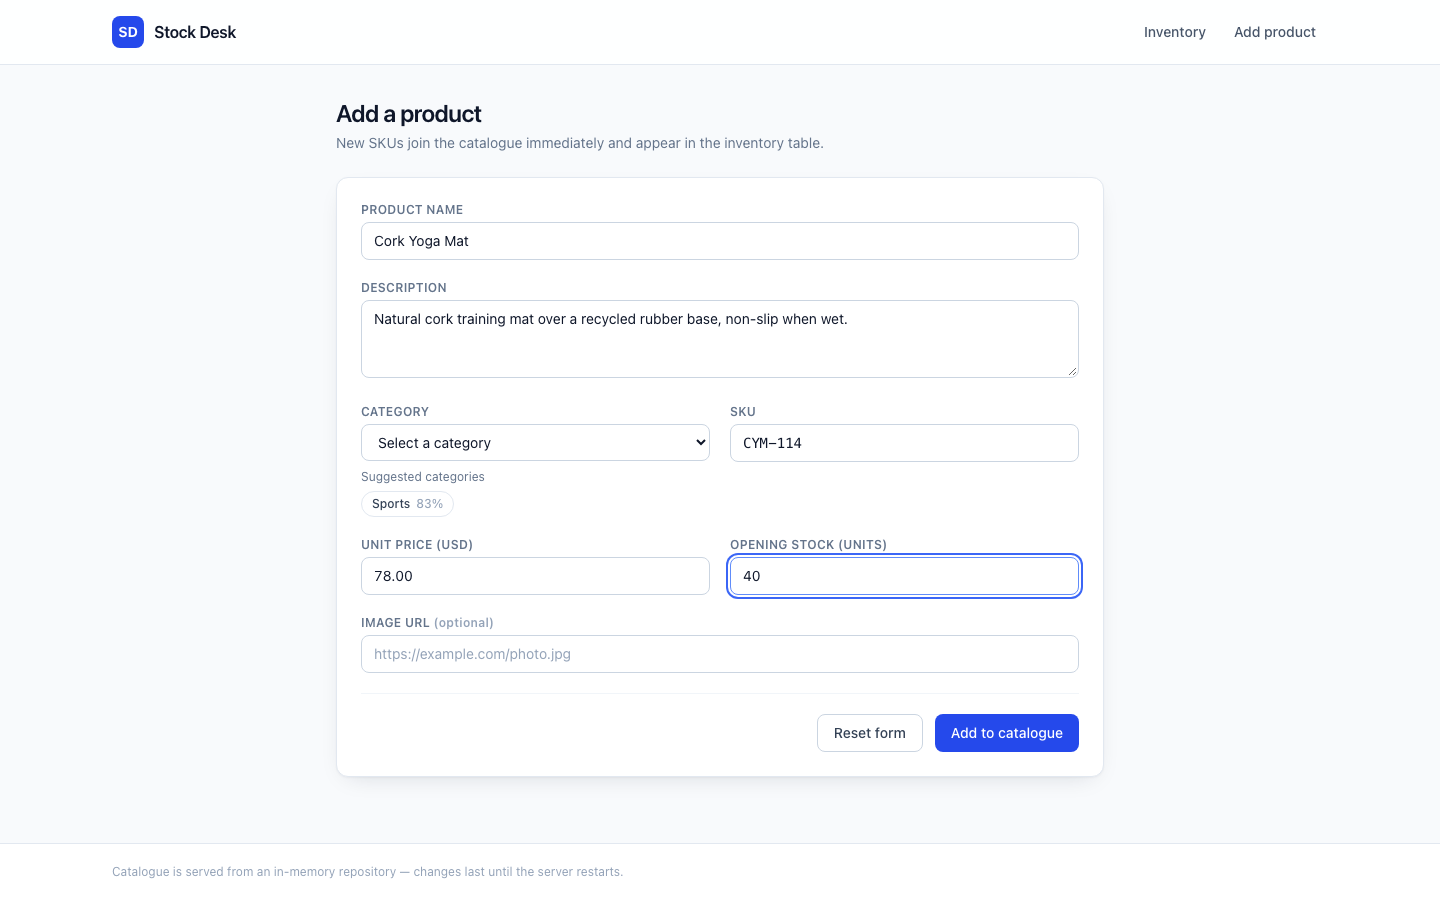
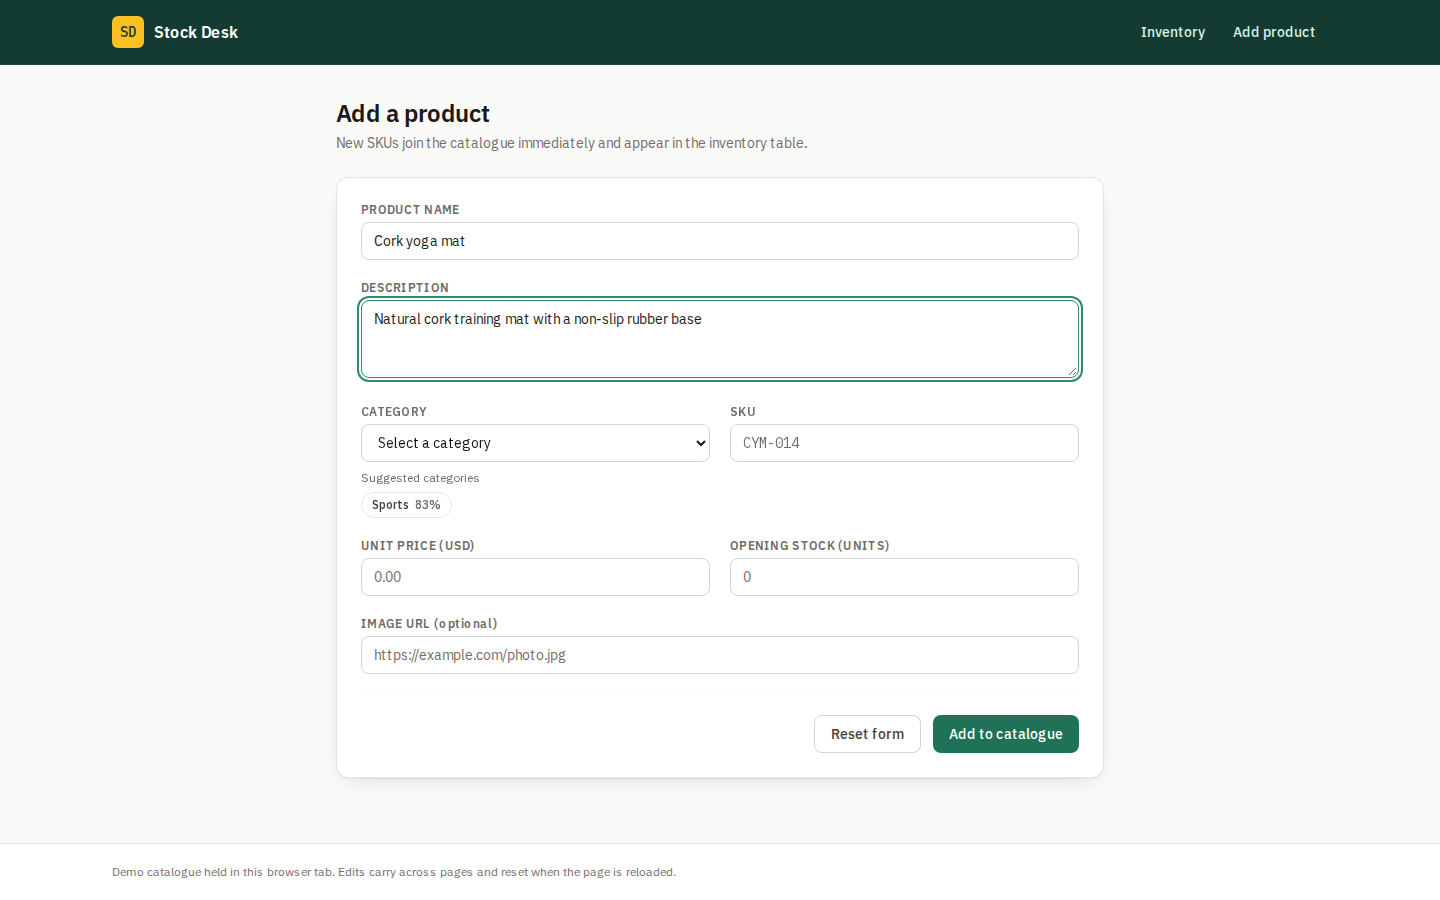
Bring the README and screenshots in line with the app as it now is
Documents the Compose path first, Node 22, ESLint 9 and the build-time
font download; says plainly that the screens' catalogue lives in the
browser tab while /api/health reads the server's seeded copy; describes
per-row rollback, whole-word category matching and the model timeout;
adds a captured suggest-category request and response; records that the
image was built and booted; and drops the paragraph about stub cart
buttons. Screenshots are recaptured in the new look, with grid and phone
views added. A type comment that promised URL-shareable queries, which
the app never had, is corrected.

diff --git a/src/types/product.ts b/src/types/product.ts
@@ -40,8 +40,8 @@ export type SortDirection = 'asc' | 'desc'
 
 /**
  * A full read request against the catalogue: filters, free-text search,
- * ordering and a page window. The same shape is understood by the repository
- * and by the URL query string, so a view is shareable.
+ * ordering and a page window. The hook builds it and the repository answers
+ * it, so the UI never filters or sorts on its own.
  */
 export interface ProductQuery extends FilterOptions {
   search?: string

diff --git a/README.md b/README.md
@@ -6,14 +6,23 @@ unit without leaving the row.
 
 ![Inventory table with summary tiles, filters and per-row stock steppers](docs/screenshots/inventory-table.png)
 
-Built with Next.js 15 (App Router), React 18, TypeScript and Tailwind. The catalogue is
-served by an in-memory repository, so the app runs with no database and no API key.
+Built with Next.js 15.5 (App Router), React 19, TypeScript, Tailwind 3 and zod 4. The
+catalogue is an in-memory demo repository, so the app runs with no database and no API
+key.
 
 ## Run it
 
+With Docker, nothing else installed:
+
 ```bash
-npm install
-npm run dev          # http://localhost:3000
+docker compose up --build     # http://localhost:3000
+```
+
+Or with Node 22 (`.nvmrc`):
+
+```bash
+npm ci
+npm run dev                   # http://localhost:3000
 ```
 
 Other commands:
@@ -21,13 +30,14 @@ Other commands:
 ```bash
 npm test             # Jest + React Testing Library
 npm run type-check   # tsc --noEmit
-npm run lint         # next lint
+npm run lint         # ESLint 9, flat config in eslint.config.mjs
 npm run format       # prettier --write .
 npm run build        # production build (standalone output)
 ```
 
-Node 20 or newer. No environment variables are required; `.env.example` lists the three
-optional ones.
+No environment variables are required; `.env.example` lists the three optional ones. The
+build downloads IBM Plex once through `next/font`, which then serves it from the app
+itself, so `npm run build` and the Docker build need network access to Google Fonts.
 
 ## What is on the screen
 
@@ -43,7 +53,15 @@ reorder point of 5 units (`src/config/app.ts`). Both thresholds come from one fu
 Above the table: a search box over name, SKU, description and category, debounced by
 250 ms so a typed word costs one read rather than one per keystroke; sort by name, price,
 units or last-updated; and a table/grid toggle. Below it: category, price-range and
-availability filters, and pagination at eight rows a page.
+availability filters, and pagination at eight rows a page. The grid shows the same page as
+cards, each with the same receive/ship stepper as its table row.
+
+![Grid view with a stock stepper on every card](docs/screenshots/inventory-grid.png)
+
+On a phone the summary tiles and filters fold into two columns and the table scrolls
+sideways inside its own frame rather than the page.
+
+<img src="docs/screenshots/inventory-mobile.png" alt="Inventory screen at phone width" width="300">
 
 Quantities and prices both go through `Intl` (`src/utils/formatters.ts`). A four-digit
 count renders as `1,240`, not `1240`.
@@ -51,8 +69,9 @@ count renders as `1,240`, not `1240`.
 ## Adjusting stock without a spinner
 
 The `−` and `+` buttons in each row write straight through. The row updates before the
-request resolves, and if the data layer refuses the change, the previous row _and_ the
-summary tiles are put back exactly as they were, with the reason shown in a banner.
+request resolves, and if the data layer refuses the change, that row _and_ its share of
+the summary tiles are put back, with the reason shown in a banner. Only the refused row is
+reverted: a write on another row that landed in the meantime stays.
 
 ```mermaid
 stateDiagram-v2
@@ -60,22 +79,22 @@ stateDiagram-v2
     Settled --> Optimistic: receive or ship one unit
     note right of Optimistic
         The row shows the new count at once
-        and both steppers lock
+        and that row's stepper locks
     end note
     Optimistic --> Settled: repository accepts and returns the stored product
     Optimistic --> Reverted: repository raises INSUFFICIENT_STOCK or NOT_FOUND
     note left of Reverted
-        Page and summary are restored to the
-        values captured before the request
+        The row and its share of the summary
+        go back to the values before the request
     end note
     Reverted --> Settled: banner dismissed
 ```
 
 The refusal is a real one, not a simulated failure: `adjustStock` rejects any change that
 would take a count below zero, so shipping 50 units of a SKU with 10 on hand raises
-`INSUFFICIENT_STOCK` and the row snaps back. Three tests in
-`__tests__/hooks/useInventory.test.tsx` cover the accept path, the rollback and the
-summary restore.
+`INSUFFICIENT_STOCK` and the row snaps back. Tests in
+`__tests__/hooks/useInventory.test.tsx` cover the accept path, the rollback, the summary
+restore and a refusal that arrives after a write on another row has already succeeded.
 
 ## Where the rules live
 
@@ -147,14 +166,38 @@ classDiagram
 
 With no `AI_API_KEY` set — the default — `createCategorySuggester` returns
 `LexicalCategorySuggester`, which scores each category by how many of its terms appear in
-the text, weighting a name match double. It is offline and deterministic: the same input
-gives the same answer on every run, and there is a test asserting that.
+the text as whole words (plurals included), weighting a name match double. Whole words
+matter: "gift card" is not a car part and "steel" is not a tee. It is offline and
+deterministic: the same input gives the same answer on every run, and there is a test
+asserting that.
 
 Set `AI_API_KEY` (plus an optional `AI_BASE_URL` and `AI_MODEL` for any OpenAI-compatible
 endpoint) and `ModelCategorySuggester` takes over. It constrains the model to the eight
-catalogue categories, and on _any_ failure — timeout, HTTP error, unparseable reply, a
-category that does not exist — it returns the lexical answer instead of an error. The
-call happens in a route handler, so the key never reaches the browser.
+catalogue categories, and on _any_ failure — no answer within eight seconds, HTTP error,
+unparseable reply, a category that does not exist — it returns the lexical answer instead
+of an error. The call happens in a route handler, so the key never reaches the browser.
+
+The route, with the default offline suggester, from the Compose container:
+
+```bash
+curl -s -X POST localhost:3000/api/suggest-category -H 'Content-Type: application/json' \
+  -d '{"name":"Cork yoga mat","description":"Natural cork training mat with a non-slip rubber base"}'
+```
+
+```json
+{
+  "provider": "lexical",
+  "suggestions": [
+    {
+      "category": "Sports",
+      "confidence": 0.83,
+      "reason": "matched \"yoga\", \"training\", \"mat\""
+    }
+  ]
+}
+```
+
+A body that is not JSON gets `400 {"error":"Request body must be JSON"}`.
 
 ## The catalogue
 
@@ -163,9 +206,12 @@ deliberate: two sit at zero, four sit at or under the reorder point, and one car
 four-digit cover, so every stock state and the thousands separator are visible on the
 first screen without editing any data.
 
-Writes land in process memory. They survive navigation but not a server restart.
+The pages are client components that call the repository directly, so the catalogue the
+screens work on lives in the browser tab. Writes survive moving between Inventory and Add
+product, and are gone on reload. Two tabs do not see each other's edits.
 
-`GET /api/health` reports liveness and reads through the data layer:
+`GET /api/health` reports liveness and reads through the same repository code, but on the
+server, so it always reports the seeded catalogue:
 
 ```json
 { "status": "ok", "catalogue": { "skuCount": 24, "unitCount": 3603 } }
@@ -177,11 +223,13 @@ Writes land in process memory. They survive navigation but not a server restart.
 npm test
 ```
 
-**116 tests across 13 suites, all passing.** They cover the stock classifier and its
+**127 tests across 15 suites, all passing.** They cover the stock classifier and its
 boundaries, the query predicate (price bounds are inclusive, both directions of the
 availability filter, search across SKU), sorting and paging, the repository's validation
-and its refusal to oversell, the optimistic-write rollback, the category suggester and
-its fallback, and the table, filter, toolbar and pagination components.
+and its refusal to oversell, the optimistic-write rollback, the category suggester, its
+whole-word matching, its HTTP adapter and timeout fallback, the add-product form's
+validation and submit paths, and the table, card, filter, toolbar and pagination
+components. The suite needs no network.
 
 ## Container
 
@@ -191,22 +239,31 @@ WEB_PORT=8080 docker compose up --build
 ```
 
 The image is a three-stage build on `node:22-alpine`: install, build, then a runtime stage
-that copies only Next's standalone server output and runs as an unprivileged `nextjs`
-user. `docker compose config` validates. The image has **not** been built or booted on
-this machine — Docker Desktop is off here — so treat the Dockerfile as reviewed, not
-proven.
+that copies only Next's standalone server output (about 350 MB in all) and runs as the
+unprivileged `nextjs` user (uid 1001). The container has a health check against
+`/api/health`; `docker compose up --build` brings it to `healthy` in a few seconds.
+
+## Look
+
+Pine green and warm stone with an amber mark, set in IBM Plex Sans and IBM Plex Mono
+(SKUs). Status colours carry a label and a dot as well as a hue, every focusable control
+shows the same focus ring, and secondary text clears WCAG AA contrast on white.
 
 ## Things this does not do
 
-- **The catalogue is in-memory.** Restarting the server resets every write. The
-  `ProductRepository` interface is the seam a real backend would slot into.
-- **No pagination server-side.** `queryProducts` filters and slices a plain array. That is
+- **No shared store.** The catalogue is held in the browser tab, so a reload resets every
+  write and no two people see the same stock. The `ProductRepository` interface is the
+  seam an HTTP or SQL adapter would slot into.
+- **No paging in a backend.** `queryProducts` filters and slices a plain array. That is
   honest for 24 rows and wrong for 24,000 — the page window and total are already in the
   response shape, so the change is contained to the adapter.
 - **No row virtualisation.** Eight rows a page keeps the DOM small instead.
 - **No editing or deleting from the table.** The repository supports `update` and `remove`
   and both are tested, but the only write wired to the UI is the one-unit stock
   adjustment.
-- **The grid card's "Add to Cart" and "Details" buttons are stubs** that log to the
-  console. The grid is a merchandising preview, not a storefront.
-- **No auth.** Anyone who can reach the app can change stock levels.
+- **No auth.** Harmless while edits stay in the visitor's own tab; a shared backend would
+  need it first.
+
+## License
+
+MIT. See [LICENSE](LICENSE).
